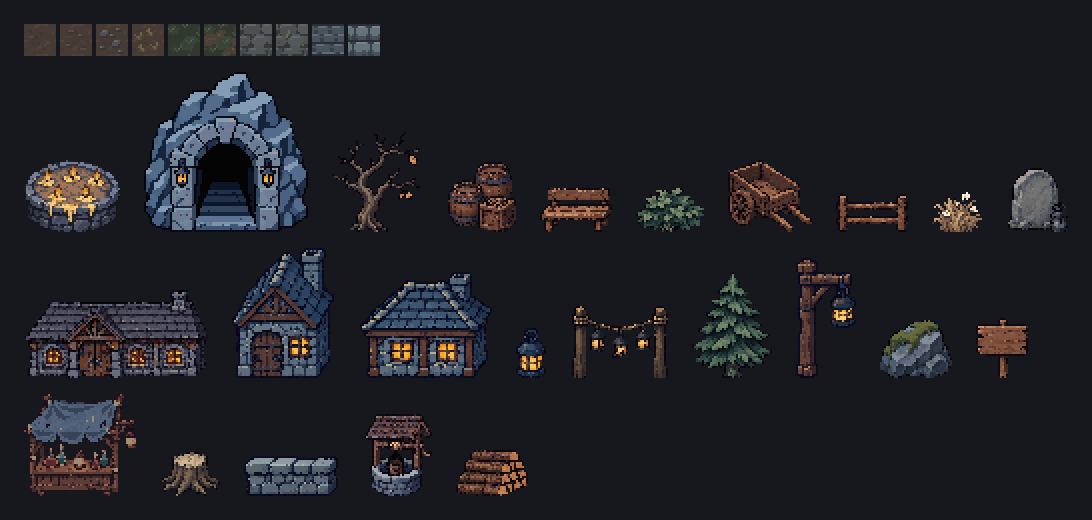
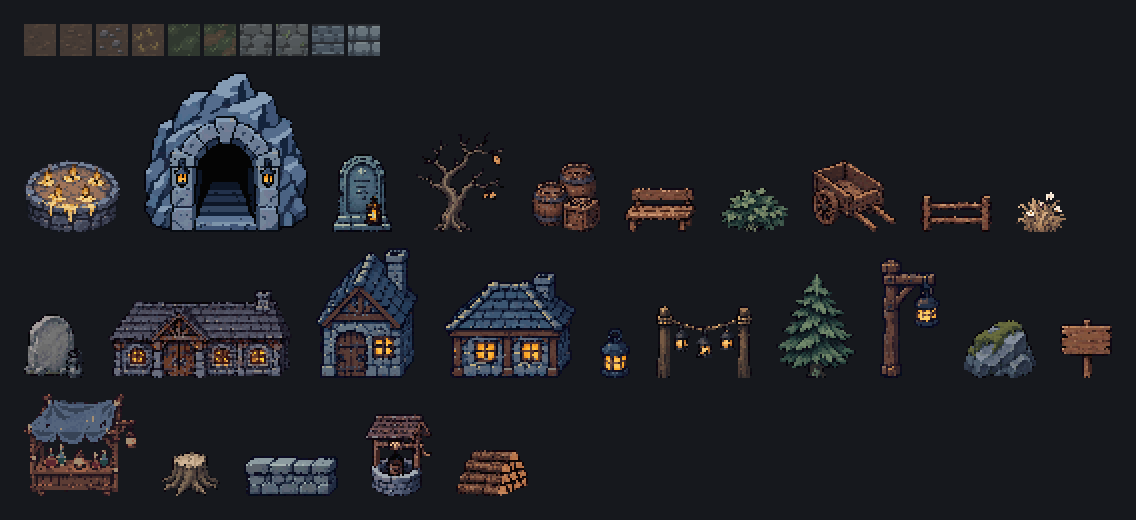
content: 등불지기 개발 6일차 글, 5일차 밤 작업 덧붙임, 에셋 모음 갱신

Changed region(s): [[0.0, 0.0308, 0.9963, 0.7385], [0.0311, 0.7692, 0.4982, 0.9538]]

diff --git a/src/posts/devlog-day6.md b/src/posts/devlog-day6.md
@@ -1,0 +1,46 @@
+---
+title: "등불지기 개발 6일차 — 새 기술 열여섯 개, 액티브 28종"
+description: 새 액티브 기술 16종, 스킬 버튼 자리 다시 놓기, 마력 재생 다시 올리기
+date: 2026-11-23
+---
+
+[5일차](/blog/devlog-day5/) 밤에 넣어 둔 새 기술 그림으로, 6일차에는 기술을 열여섯 개 더 만들었어요. 액티브 기술은 모두 28종이 됐어요.
+
+## 1. 새 기술 열여섯 개
+
+세 번에 나눠 넣었어요. 기본 공격 둘과 합쳐 기술은 30종이고, 액티브는 물리 9 · 마법 10 · 지원 9예요.
+
+- **첫 번째 여섯**: 묘지기 망치, 뼈 부메랑, 도깨비불, 별똥, 순간이동, 기도
+  - 순간이동은 대시처럼 가고 있는 쪽으로 옮겨 가요
+  - 도깨비불은 쫓아갈 적이 없으면 나가지 않아요
+- **두 번째 여섯**: 뼈 창, 처형, 서리 등잔, 저주 낙인, 금빛 가호, 등불 심지
+  - 앞으로 돌진하기, 잠깐 무적, 등불 빛을 키우기, 적에게 낙인 찍기 같은 새 움직임이 생겼어요
+- **세 번째 넷**
+  - **관 뚜껑 방패**: 등불 쪽에서 오는 근접 공격과 탄을 막고, 막은 탄은 튕겨서 적을 맞혀요
+  - **붉은 실**: 가까운 적과 줄로 이어 피해를 주고, 깎은 체력 일부를 되찾아요
+  - **등불 폭발**: 빛 안의 적 전부에게 피해를 주는 대신, 잠깐 빛이 좁아져요
+  - **등불 결계**: 일반 적이 들어오지 못하는 원을 쳐요 (보스는 들어와요)
+- 새 기술 소리는 아직 임시예요
+- 설계했던 기술 중 해골 소환과 미끼 허수아비 둘은 미뤘어요. 아군이 스스로 길을 찾아 싸우거나, 적이 주인공 말고 다른 것을 쫓는 구조가 새로 필요해서 테스트 결과를 본 뒤에 하기로 했어요
+
+![기술 효과 모음 (지금 그림)](/games/lanternkeeper/art/gallery_effects.webp)
+
+## 2. 스킬 버튼 다시 놓기
+
+- 스킬 버튼을 48픽셀로 키우고, 대시 버튼을 가운데 둔 부채꼴로 다시 놓았어요
+
+## 3. 마력 재생 다시 올리기
+
+- 5일차 테스트 피드백으로 초당 1까지 내렸던 마력 재생을 2로 올렸어요. 직접 해 보니 처음 마력을 다 쓰고 나면 기술을 너무 드물게 쓰게 됐어요
+
+## 4. 고친 것
+
+- 제단 [스킬] 탭에서 아이콘을 두 번 눌러 넣고 빼는 것이 웹 빌드에서 다시 안 되던 문제
+
+## 그 밖에
+
+- 로그인과 클라우드 저장을 어떻게 붙일지 설계를 시작했어요. 아직 게임에는 들어가지 않았어요
+
+새 기술은 모두 빌드 14에 들어 있어요. 던전 안에서 새 기술이 제대로 나가는지는 아직 다 확인하지 못해서, 써 보고 이상한 점을 알려 주시면 큰 도움이 돼요. 지금 빌드는 [여기](/games/lanternkeeper/play/)서 바로 할 수 있고, 느낀 점은 [여기](/about/#contact)로 알려 주세요.
+
+게임 개발은 Claude Code와 함께 하고, 에셋 이미지는 Codex와 힉스필드로 만들고 있어요.

diff --git a/src/posts/devlog-day5.md b/src/posts/devlog-day5.md
@@ -53,10 +53,18 @@ date: 2026-11-22
 - 패시브를 새로: 영혼의 불씨, 날랜 발, 약초 지식, 보스 사냥꾼
 - 패시브는 단계 없이 효과 하나로 단순하게
 
-3번의 포션·대시 남은 시간 표시와 4·5번은 아직 블로그 빌드(빌드 13)에 들어가지 않았어요. 개발 기록의 '개발 중' 칸에서 볼 수 있고, 다음 빌드에 들어가요.
+## 6. 제단과 마을 손보기
+
+밤늦게 제단과 마을을 조금 더 다듬었어요.
+
+- 제단 [스킬] 목록을 기본 공격·물리·마법·지원·패시브로 한 줄씩 나누고, 위아래로 넘겨 보게 했어요. 새 기술 그림(아이콘 16장, 효과 43장)도 이때 넣었어요. 기술은 다음 날 들어가요
+- 제단을 열면 뒤로 마을이 비쳐 보이고, 닫으면 서 있던 자리로 돌아와요
+- 마을 아이콘 줄에 **가방**(B 키): 칸 여덟 개에 가진 소모품만 보이고, 칸을 고르면 이름과 설명이 나와요
+- 영혼 흡수는 확률로 회복하던 것을 적을 잡을 때마다 확실히 회복하게
+- 스킬 탭 아이콘을 두 번 누르면 화면이 멈추던 문제, 가방 칸 개수 글자가 안 보이던 문제 고침
+
+3번의 포션·대시 남은 시간 표시부터 6번까지는 빌드 14에 들어갔어요.
 
 ## 닷새 동안
 
 기획 한 장으로 시작해서, 마을에서 빌드를 짜고 던전 세 곳을 내려가는 게임이 됐어요. 게임 저장소 커밋은 450개쯤, 커밋 시각으로 어림한 작업 시간은 50시간쯤이에요. 게임 개발은 Claude Code와 함께 했고, 에셋 이미지는 Codex와 힉스필드로 만들었어요.
-
-지금 빌드는 [여기](/games/lanternkeeper/play/)서 바로 할 수 있어요. 해 보고 느낀 점을 [알려 주시면](/about/#contact) 큰 도움이 돼요.
